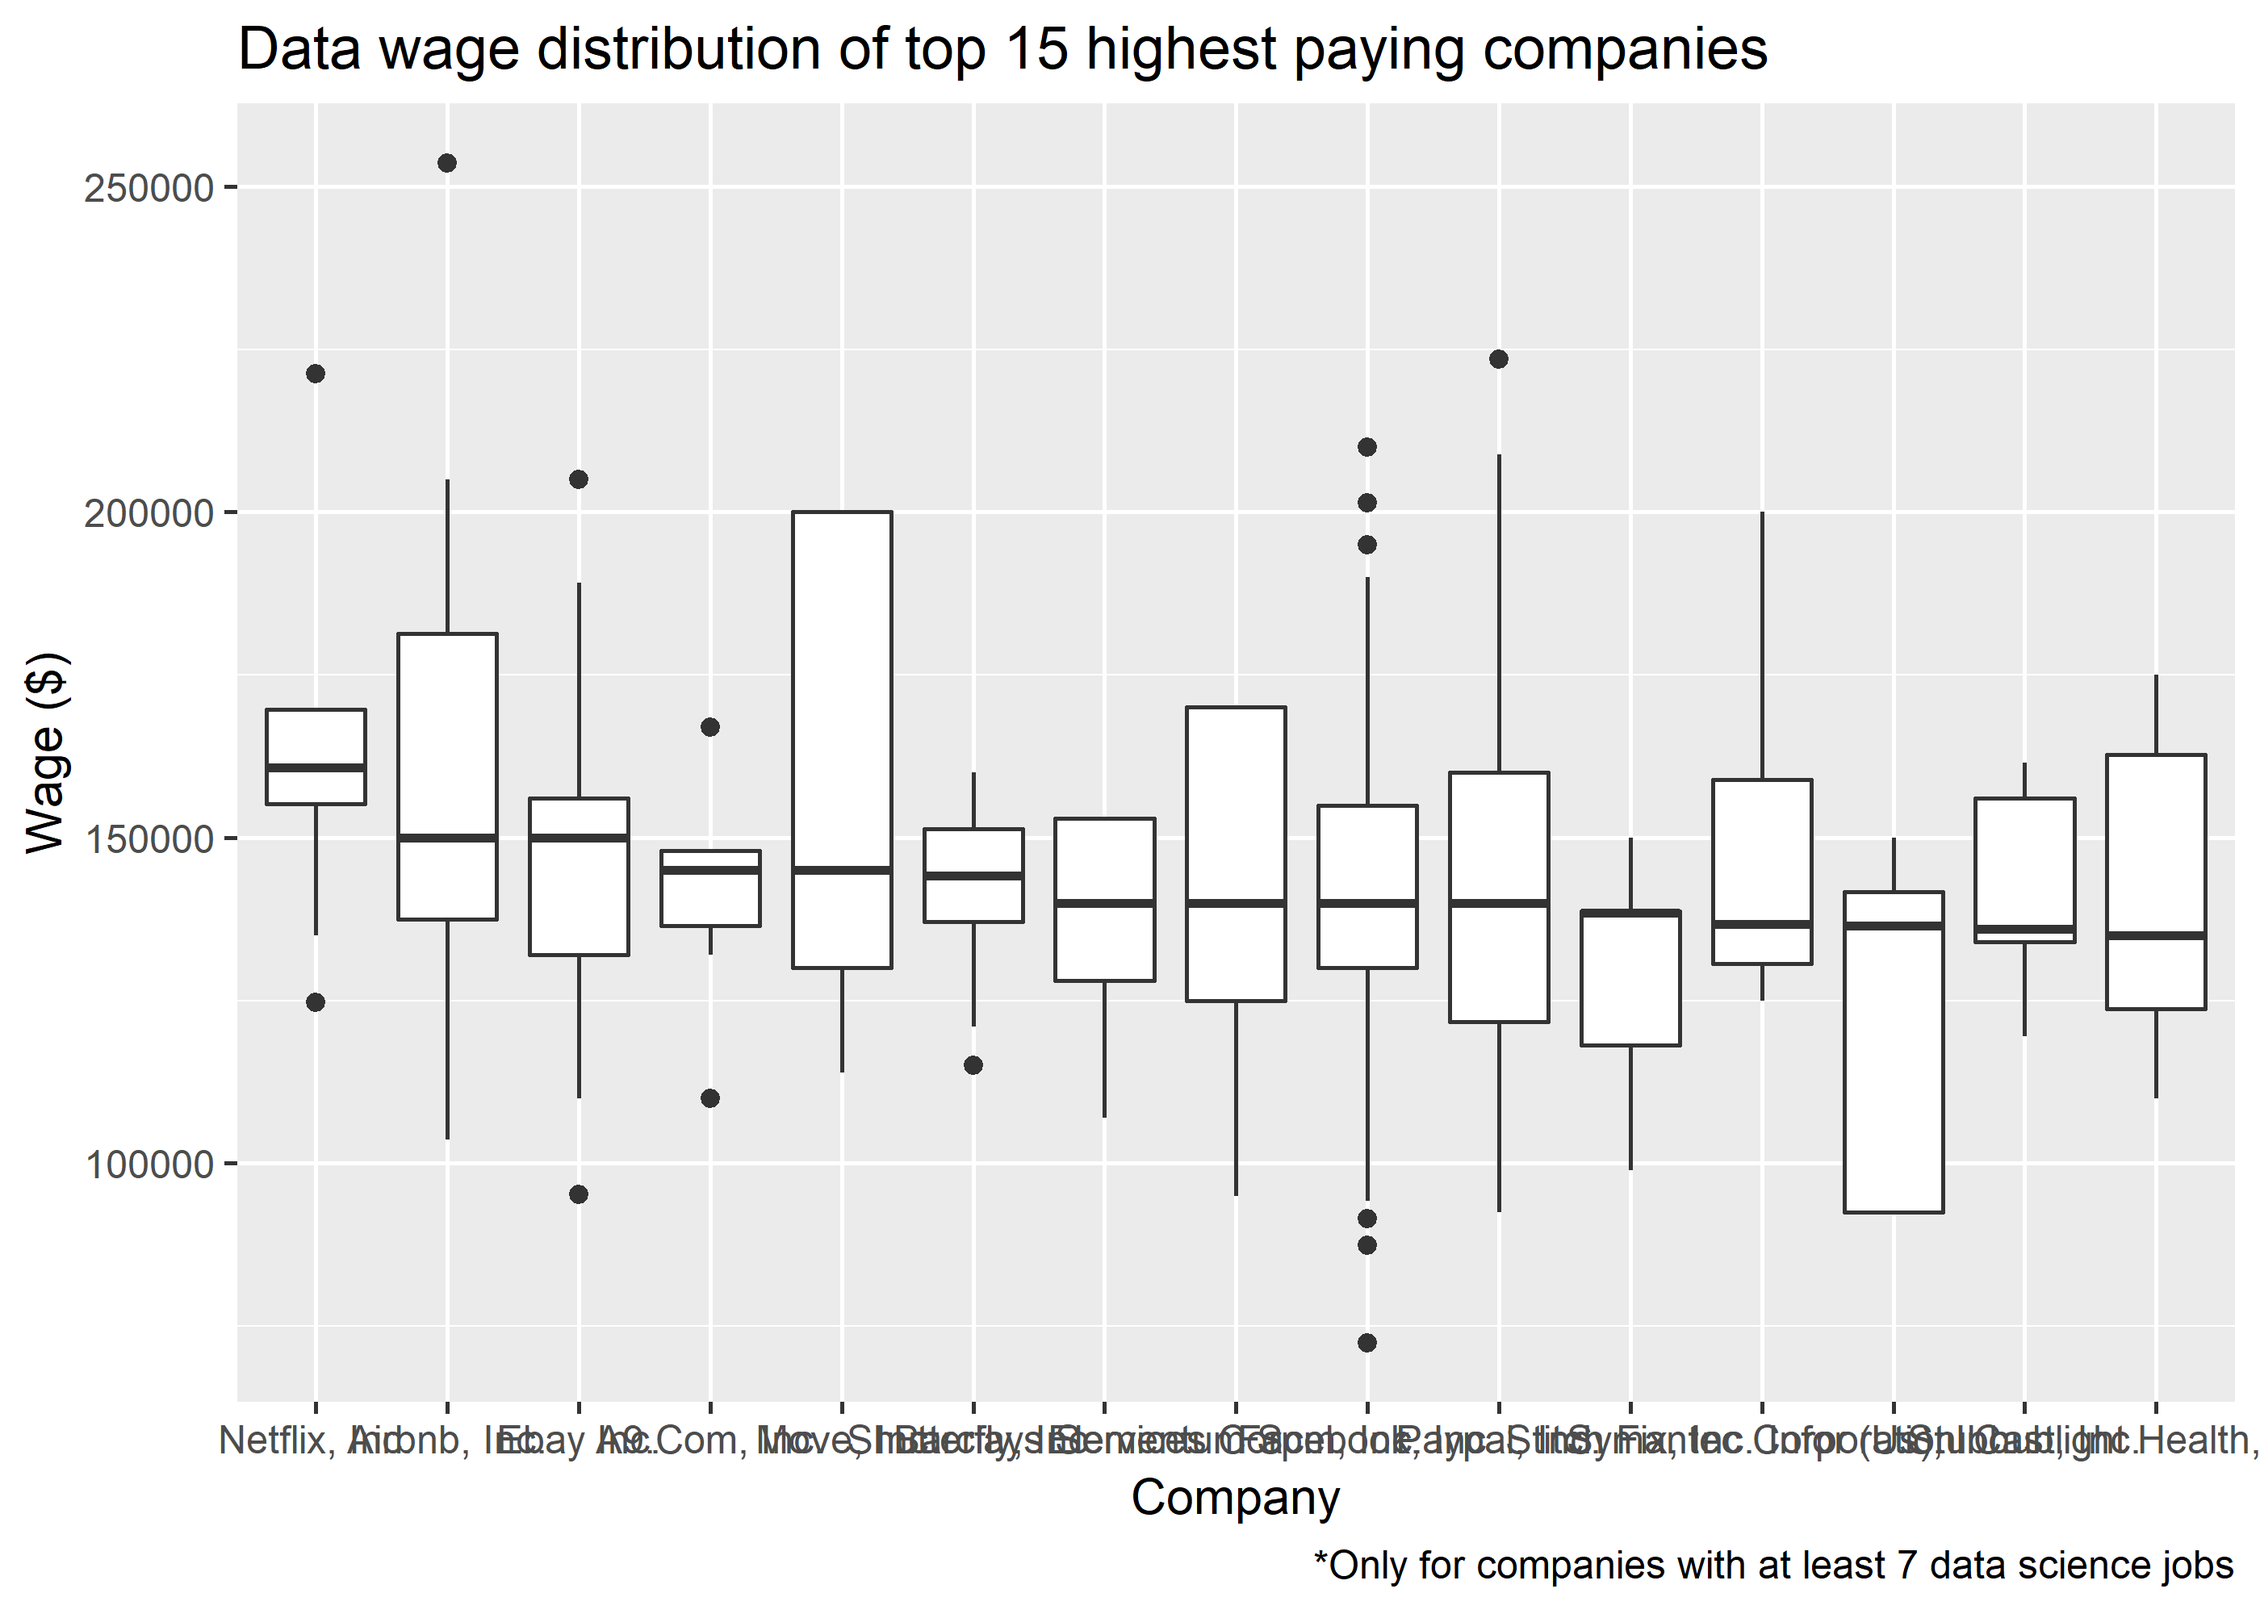
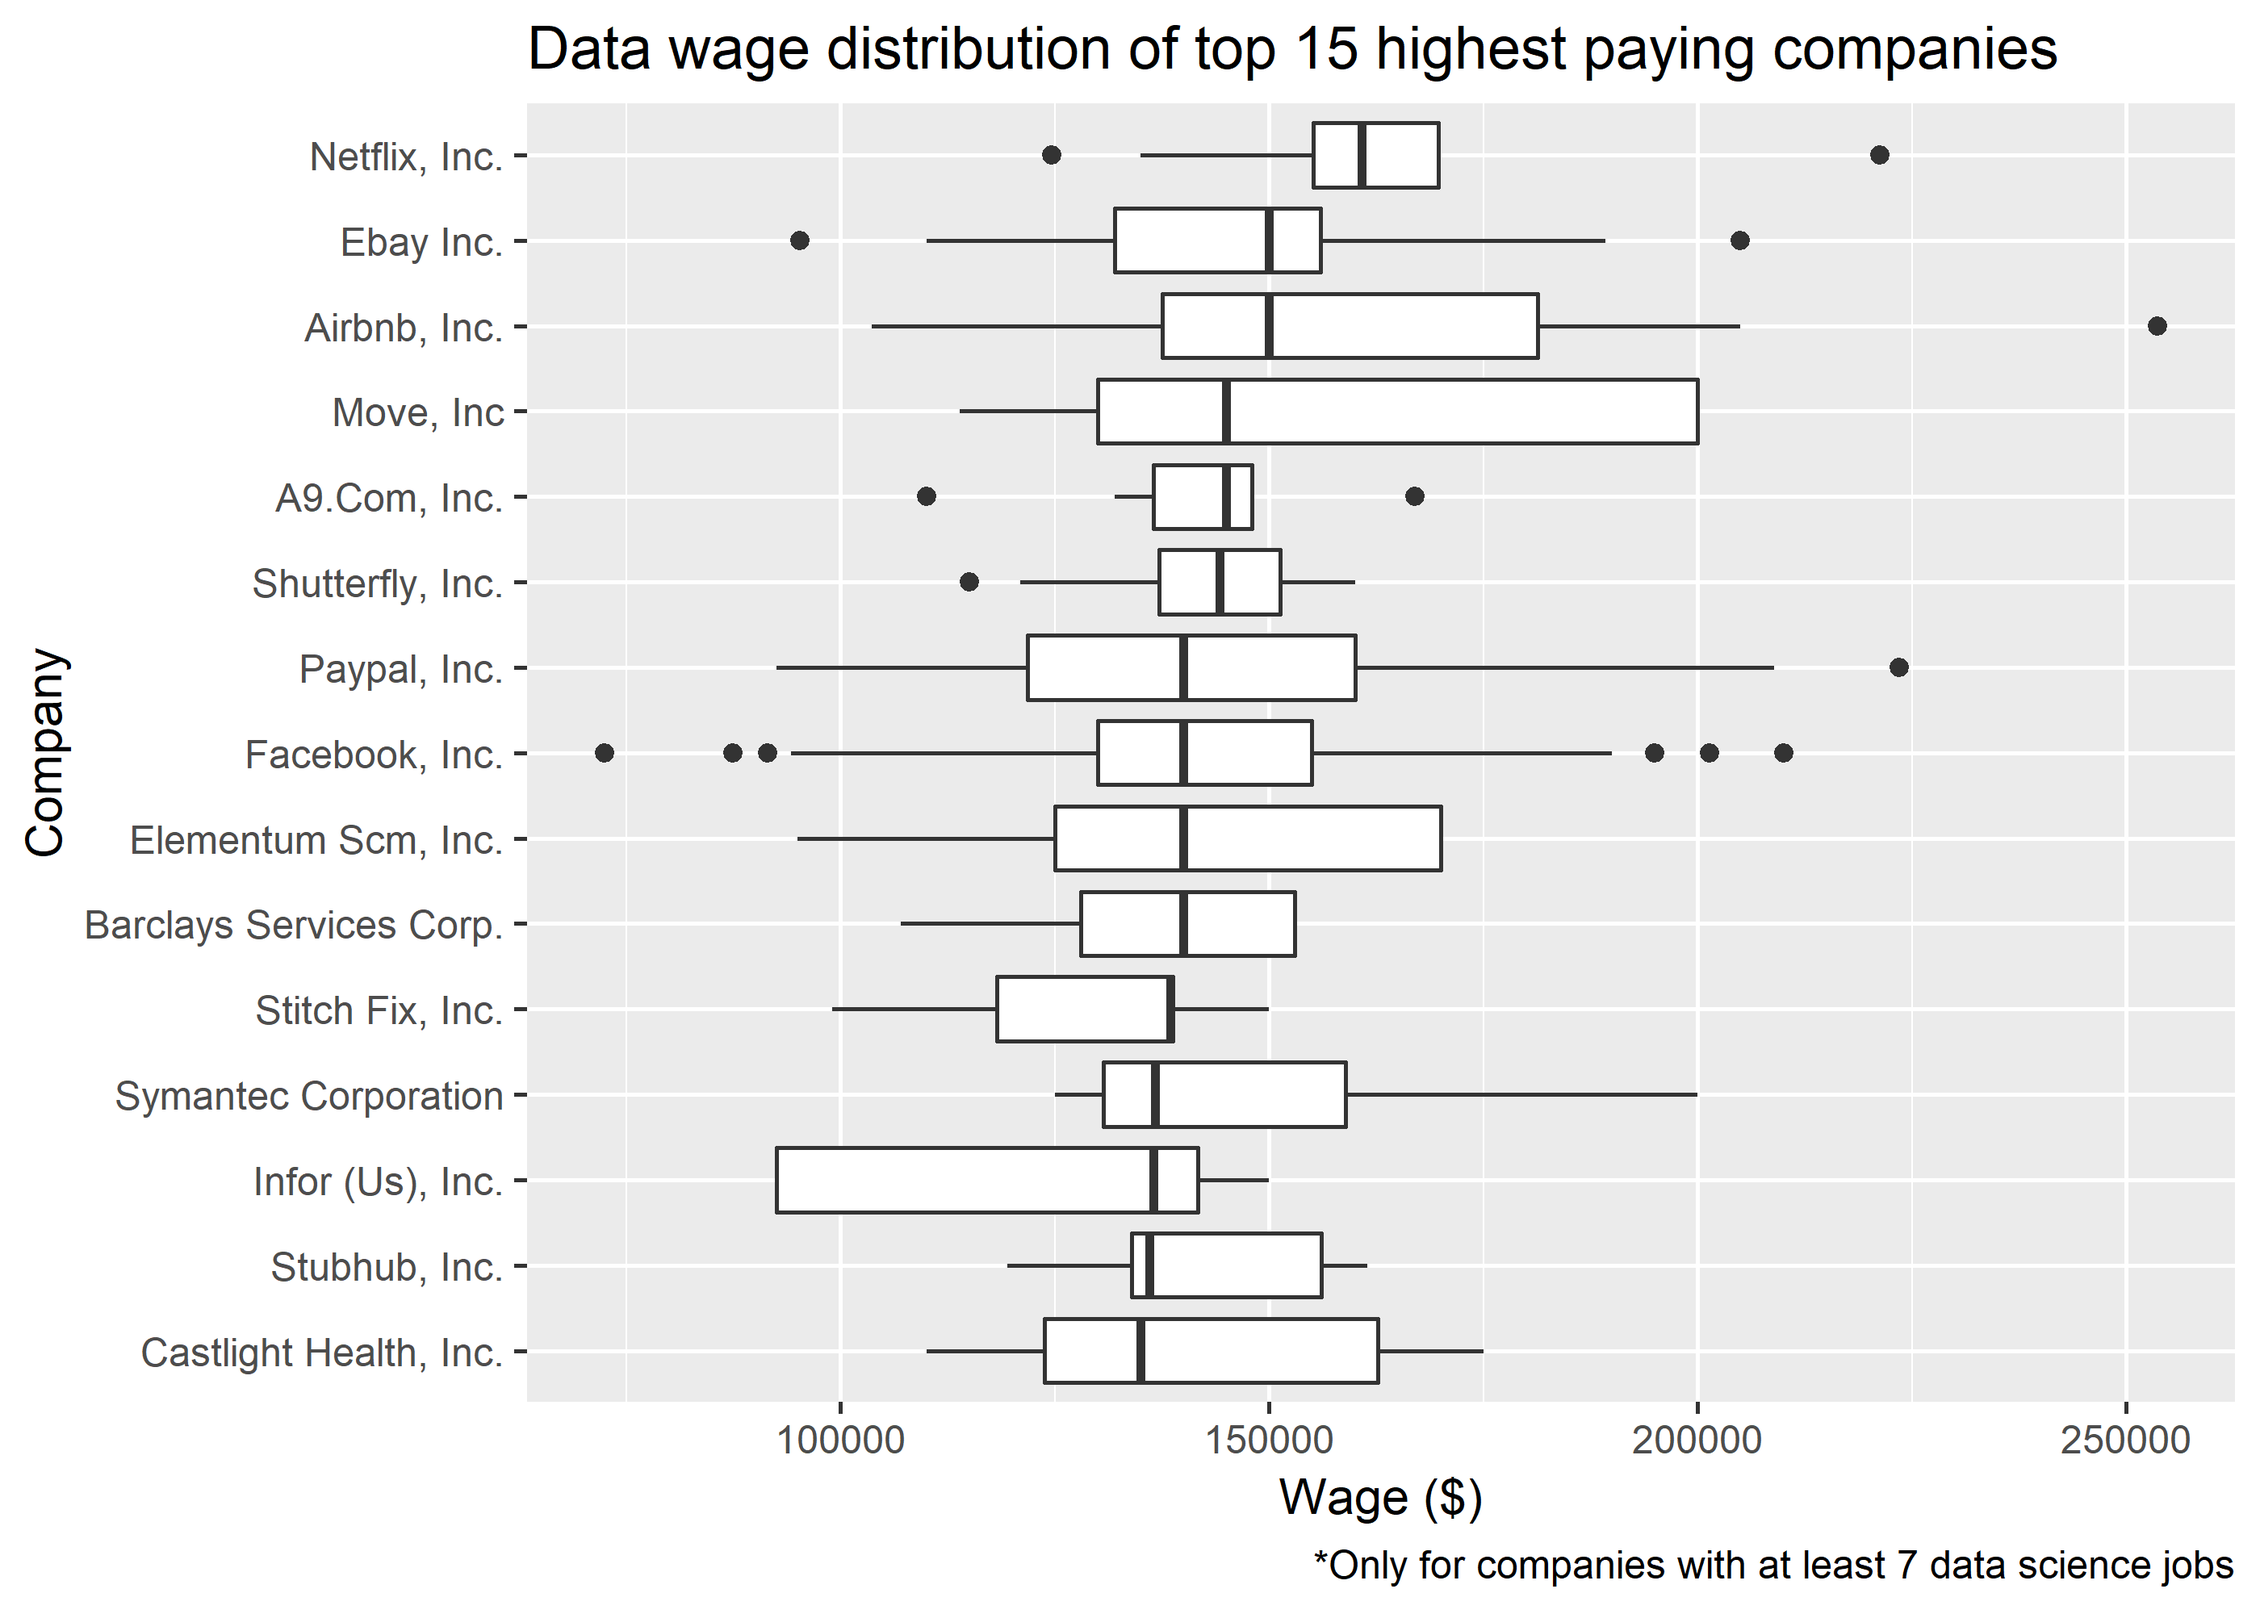
added Hawaii and Alaska

diff --git a/h1b_data/h1b_data.md b/h1b_data/h1b_data.md
@@ -1,13 +1,13 @@
 H1B Visualization
 ================
 Chris Oh
-2018-11-25
+2019-10-14
 
 -   [Importing data](#importing-data)
 -   [Jobs in data only](#jobs-in-data-only)
 -   [Aggregates](#aggregates)
     -   [Overall](#overall)
-    -   [Highest paying in data](#highest-paying-in-data)
+    -   [Highest paying companyies in data](#highest-paying-companyies-in-data)
     -   [By state](#by-state)
     -   [By city](#by-city)
     -   [Within California](#within-california)
@@ -15,36 +15,59 @@ Chris Oh
 ``` r
 # Libraries
 library(tidyverse)
-```
-
-    ## Warning: package 'tidyverse' was built under R version 3.5.1
-
-    ## Warning: package 'ggplot2' was built under R version 3.5.1
-
-    ## Warning: package 'tidyr' was built under R version 3.5.1
-
-    ## Warning: package 'readr' was built under R version 3.5.1
-
-    ## Warning: package 'dplyr' was built under R version 3.5.1
-
-``` r
 library(readxl)
 library(sf)
 ```
-
-    ## Warning: package 'sf' was built under R version 3.5.1
 
 Importing data
 --------------
 
 ``` r
 # h1b_2017 <- read_xlsx(path_h1b_2017)
-
-state <-
+# Geographical data
+state_rest <-
   read_rds(path_state) %>% 
   filter(!STATEFP %in% c("02", "15")) %>% 
   mutate(state_fips = STATEFP %>% as.integer()) %>% 
   st_transform(US_ALBERS)
+
+state_coord <-
+  st_bbox(state_rest)
+
+state_alaska <-
+  read_rds(path_state) %>%
+  filter(STATEFP %in% "02") %>% 
+  mutate(state_fips = as.integer(GEOID)) %>% 
+  st_transform(crs = CRS_ALASKA)
+
+st_geometry(state_alaska) <-
+  place_geometry(
+    st_geometry(state_alaska),
+    c(state_coord$xmin + 0.08*(state_coord$xmax - state_coord$xmin),
+      state_coord$ymin + 0.07*(state_coord$ymax - state_coord$ymin)),
+    scale = .35
+  )
+
+st_crs(state_alaska) <- US_ALBERS
+
+state_hawaii <-
+  read_rds(path_state) %>%
+  filter(STATEFP %in% "15") %>% 
+  mutate(state_fips = as.integer(GEOID)) %>% 
+  st_transform(crs = CRS_HAWAII)
+
+st_geometry(state_hawaii) <-
+  place_geometry(
+    st_geometry(state_hawaii),
+    c(state_coord$xmin + 0.3*(state_coord$xmax - state_coord$xmin),
+      state_coord$ymin)
+  )
+
+st_crs(state_hawaii) <- US_ALBERS
+
+state <-
+  state_rest %>% 
+  rbind(state_alaska, state_hawaii)
 
 state_label <- 
   state %>% 
@@ -84,7 +107,7 @@ data_science_17 %>%
 
 <img src="h1b_data_files/figure-markdown_github/unnamed-chunk-7-1.png" width="100%" />
 
-### Highest paying in data
+### Highest paying companyies in data
 
 ``` r
 data_17 %>% 
@@ -98,14 +121,15 @@ data_17 %>%
     wage = as.numeric(WAGE_RATE_OF_PAY_FROM),
     EMPLOYER_NAME = str_to_title(EMPLOYER_NAME)
   ) %>% 
-  ggplot(aes(fct_reorder(EMPLOYER_NAME, -wage), wage)) +
+  ggplot(aes(fct_reorder(EMPLOYER_NAME, wage), wage)) +
   geom_boxplot() +
   labs(
     title = "Data wage distribution of top 15 highest paying companies",
     y = "Wage ($)",
     x = "Company",
     caption = "*Only for companies with at least 7 data science jobs"
-  )
+  ) +
+  coord_flip()
 ```
 
 <img src="h1b_data_files/figure-markdown_github/unnamed-chunk-8-1.png" width="100%" />
@@ -252,14 +276,15 @@ data_17 %>%
     EMPLOYER_NAME = str_to_title(WORKSITE_CITY)
   ) %>% 
   filter(wage > 1000) %>% 
-  ggplot(aes(fct_reorder(EMPLOYER_NAME, -wage), wage)) +
+  ggplot(aes(fct_reorder(EMPLOYER_NAME, wage), wage)) +
   geom_boxplot() +
   labs(
     title = "Data wage distribution of top 15 highest paying cities",
     y = "Wage ($)",
     x = "Company",
     caption = "*Only for cities with at least 20 data jobs records"
-  )
+  ) +
+  coord_flip()
 ```
 
 <img src="h1b_data_files/figure-markdown_github/unnamed-chunk-10-1.png" width="100%" />
@@ -283,14 +308,15 @@ data_17 %>%
     wage = as.numeric(WAGE_RATE_OF_PAY_FROM),
     EMPLOYER_NAME = str_to_title(WORKSITE_CITY)
   ) %>% 
-  ggplot(aes(fct_reorder(EMPLOYER_NAME, -wage), wage)) +
+  ggplot(aes(fct_reorder(EMPLOYER_NAME, wage), wage)) +
   geom_boxplot() +
   labs(
     title = "Data wage distribution of top 15 highest paying cities in California",
     y = "Wage ($)",
     x = "Company",
     caption = "*Only for cities with at least 20 data jobs records"
-  )
+  ) +
+  coord_flip()
 ```
 
 <img src="h1b_data_files/figure-markdown_github/unnamed-chunk-11-1.png" width="100%" />
